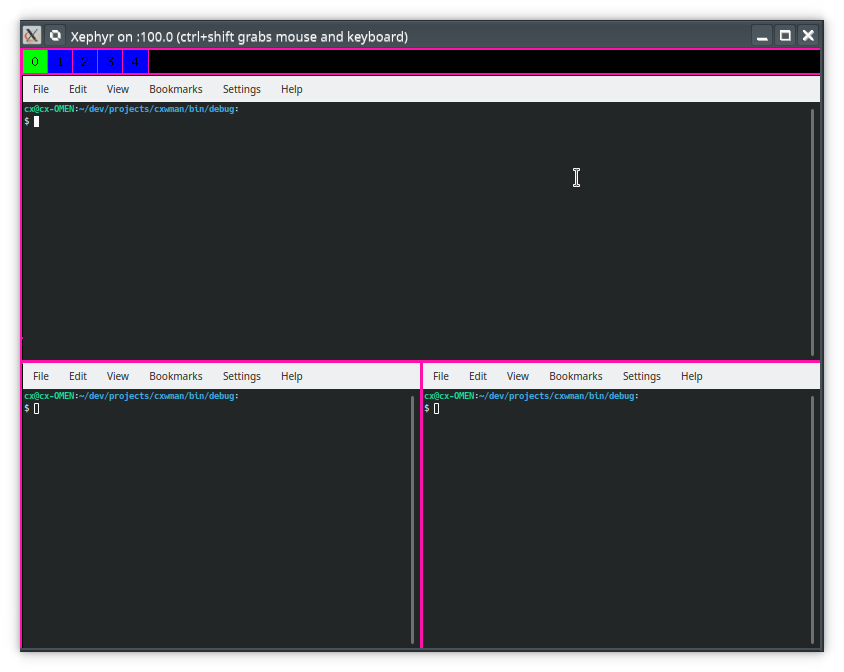
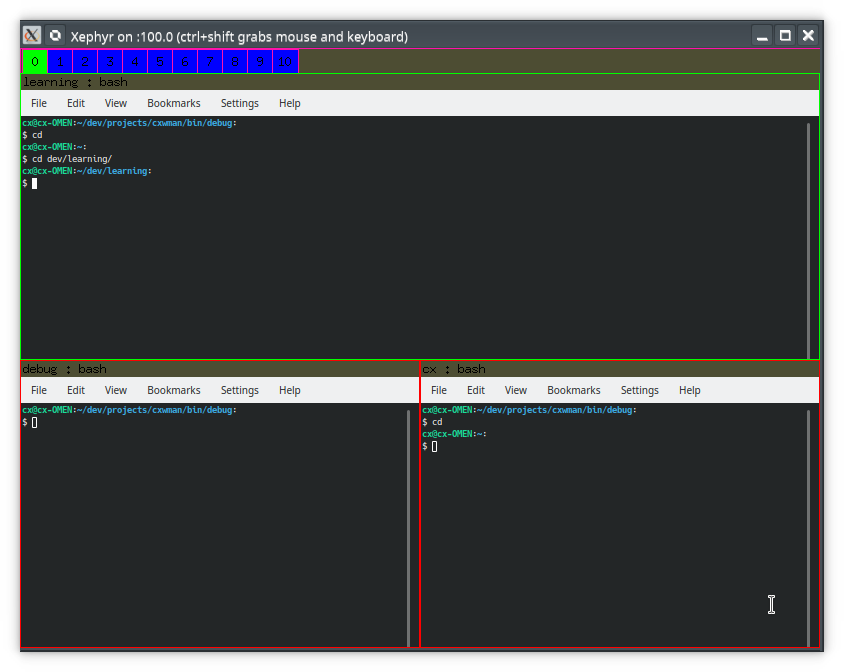
Added some dev-loggery to the README and updated basic_functionality image

Changed region(s): [[0.0, 0.0625, 0.9858, 0.9688], [0.6777, 0.25, 0.7085, 0.2812]]

diff --git a/README.md b/README.md
@@ -13,7 +13,7 @@
         - [ ] How does pixmaps work?
    - [ ] Logging of various X information (perhaps glance at basic_wm?)
    - [ ] Implement some form of [docking container](#docking-container) window, that will contain clickable widgets, for instance "go to workspace x"
-   - [ ] [IPC](#ipc), handling (for instance) being sent commands by other applications or processes 
+   - [x] [IPC](#ipc), handling (for instance) being sent commands by other applications or processes 
    
 ### User action features
    - [x] Rotate window left/right
@@ -43,9 +43,13 @@ Similar to that of windows or linux. Containing things like what workspace one i
 Simple stuff to begin with.
 
 ### IPC
-IPC will be implemented using Linux's awesome payload queues. The reason why I won't use sockets or other things here,
-is because it seems unnecessarily complex for what I actually need to achieve. Using payload queues, we also get
-thread safety built in, another huge perk. 
+Implemented using Unix Domain Sockets. Currently, we link to a library cxprotocol that is supposed to keep all the info
+of how to send messages, create messages from payloads and decode them etc. Found in dep/local/cxprotocol.
+
+Using this, we can start creating Window Manager client applications, that take advantage of toolkits, and thus
+not have to "hardcode"/"handcode" in widget-y like things as we have done with the current workspace switcher. 
+
+For example, we can create something that looks nice, behaves nice and just send IPC commands over the unix domain socket. 
 
 ## Todo's implementation details
    - [x] Grab WM Hints and WM atoms etc. Can we get client names, so we can use them as identifiers?
@@ -70,3 +74,15 @@ There could be better solutions and designs here, but for now, this is what I go
 
 #### Screenshot of current basic functionalities
 ![Tiled windows and extremely rudimentary status bar](misc/basic_functionality_and_look.png)
+
+
+
+### Implementation details / Log
+Added epoll to the WM setup. EPoll is used for I/O multiplexing and is a linux feature (POSIX only has select/poll)
+By adding the XCB/X11 connection to the EPoll set (by calling xcb_get_filedescriptor(), we can multiplex on the
+IPC Unix Domain Socket and the X11 socket, thus we can poll for events on the IPC sockets & the X server sockets simulataneously
+thus increasing performance, since epoll_wait will actually block, and not be running an infinte loop absolutely chewing through CPU usage
+
+Trying to implement some Command pattern feature, so that the IPC mechanism will simulate what the Manager class does,
+and possibly get away from the enormouse if-then-else wall that one gets with handling input and making commands. Haven't really landed on anything good yet.
+
